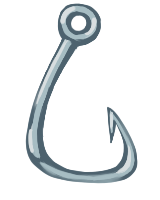
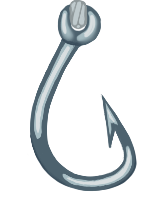
New hook sprites

Changed region(s): [[0.1562, 0.0, 0.875, 0.96]]

diff --git a/TODO.md b/TODO.md
@@ -62,6 +62,10 @@
 - [x] Epave (pont)
 - [x] Epave (intérieur)
 - [x] Abysses
+- [ ] Mangrove
+- [ ] Récif 
+- [ ] Grand bleu
+- [ ] Courant marin
 
 # Gameplay
 
